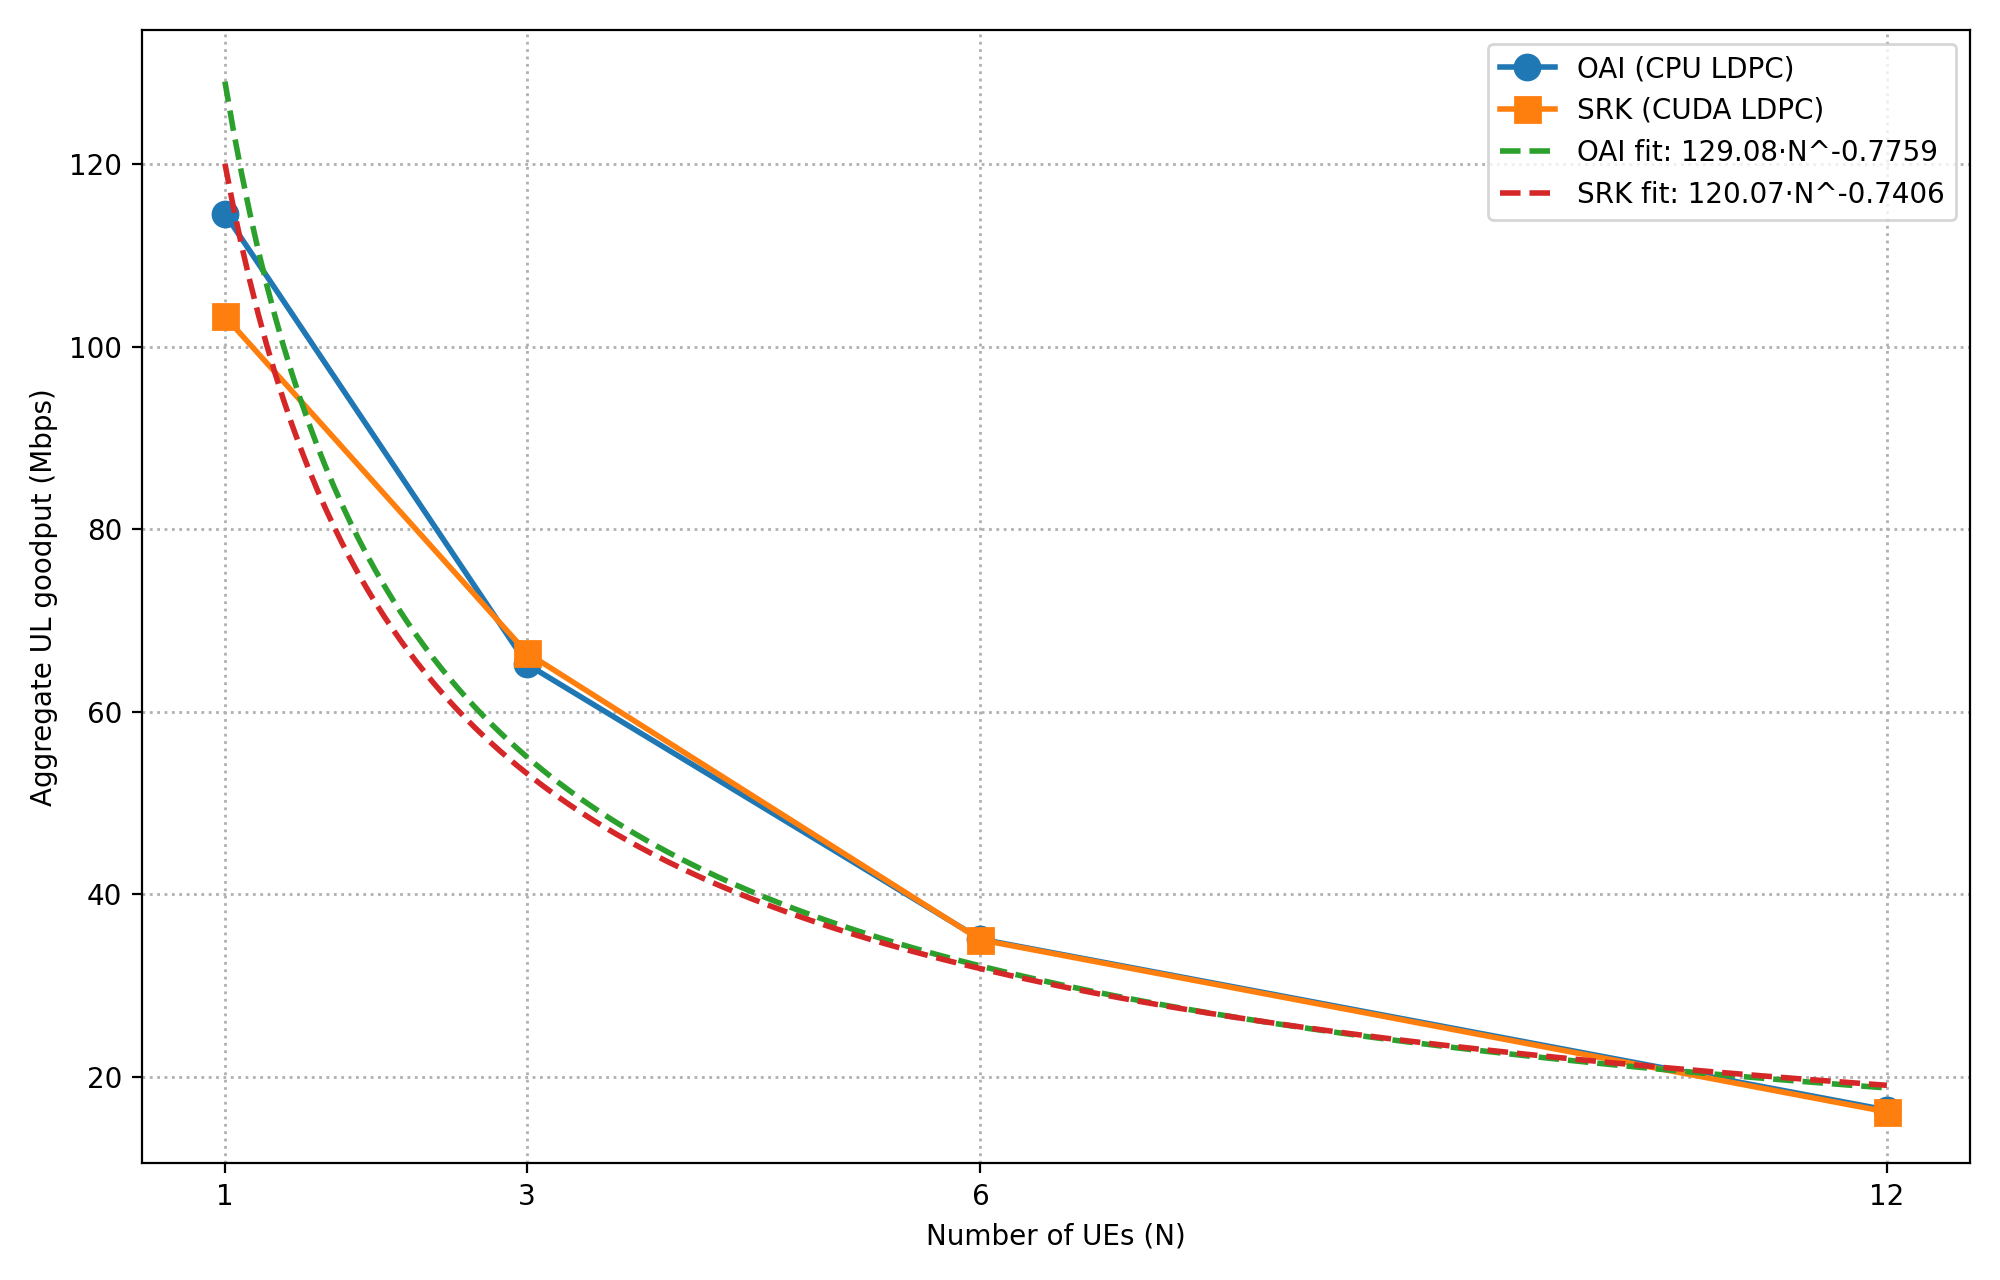
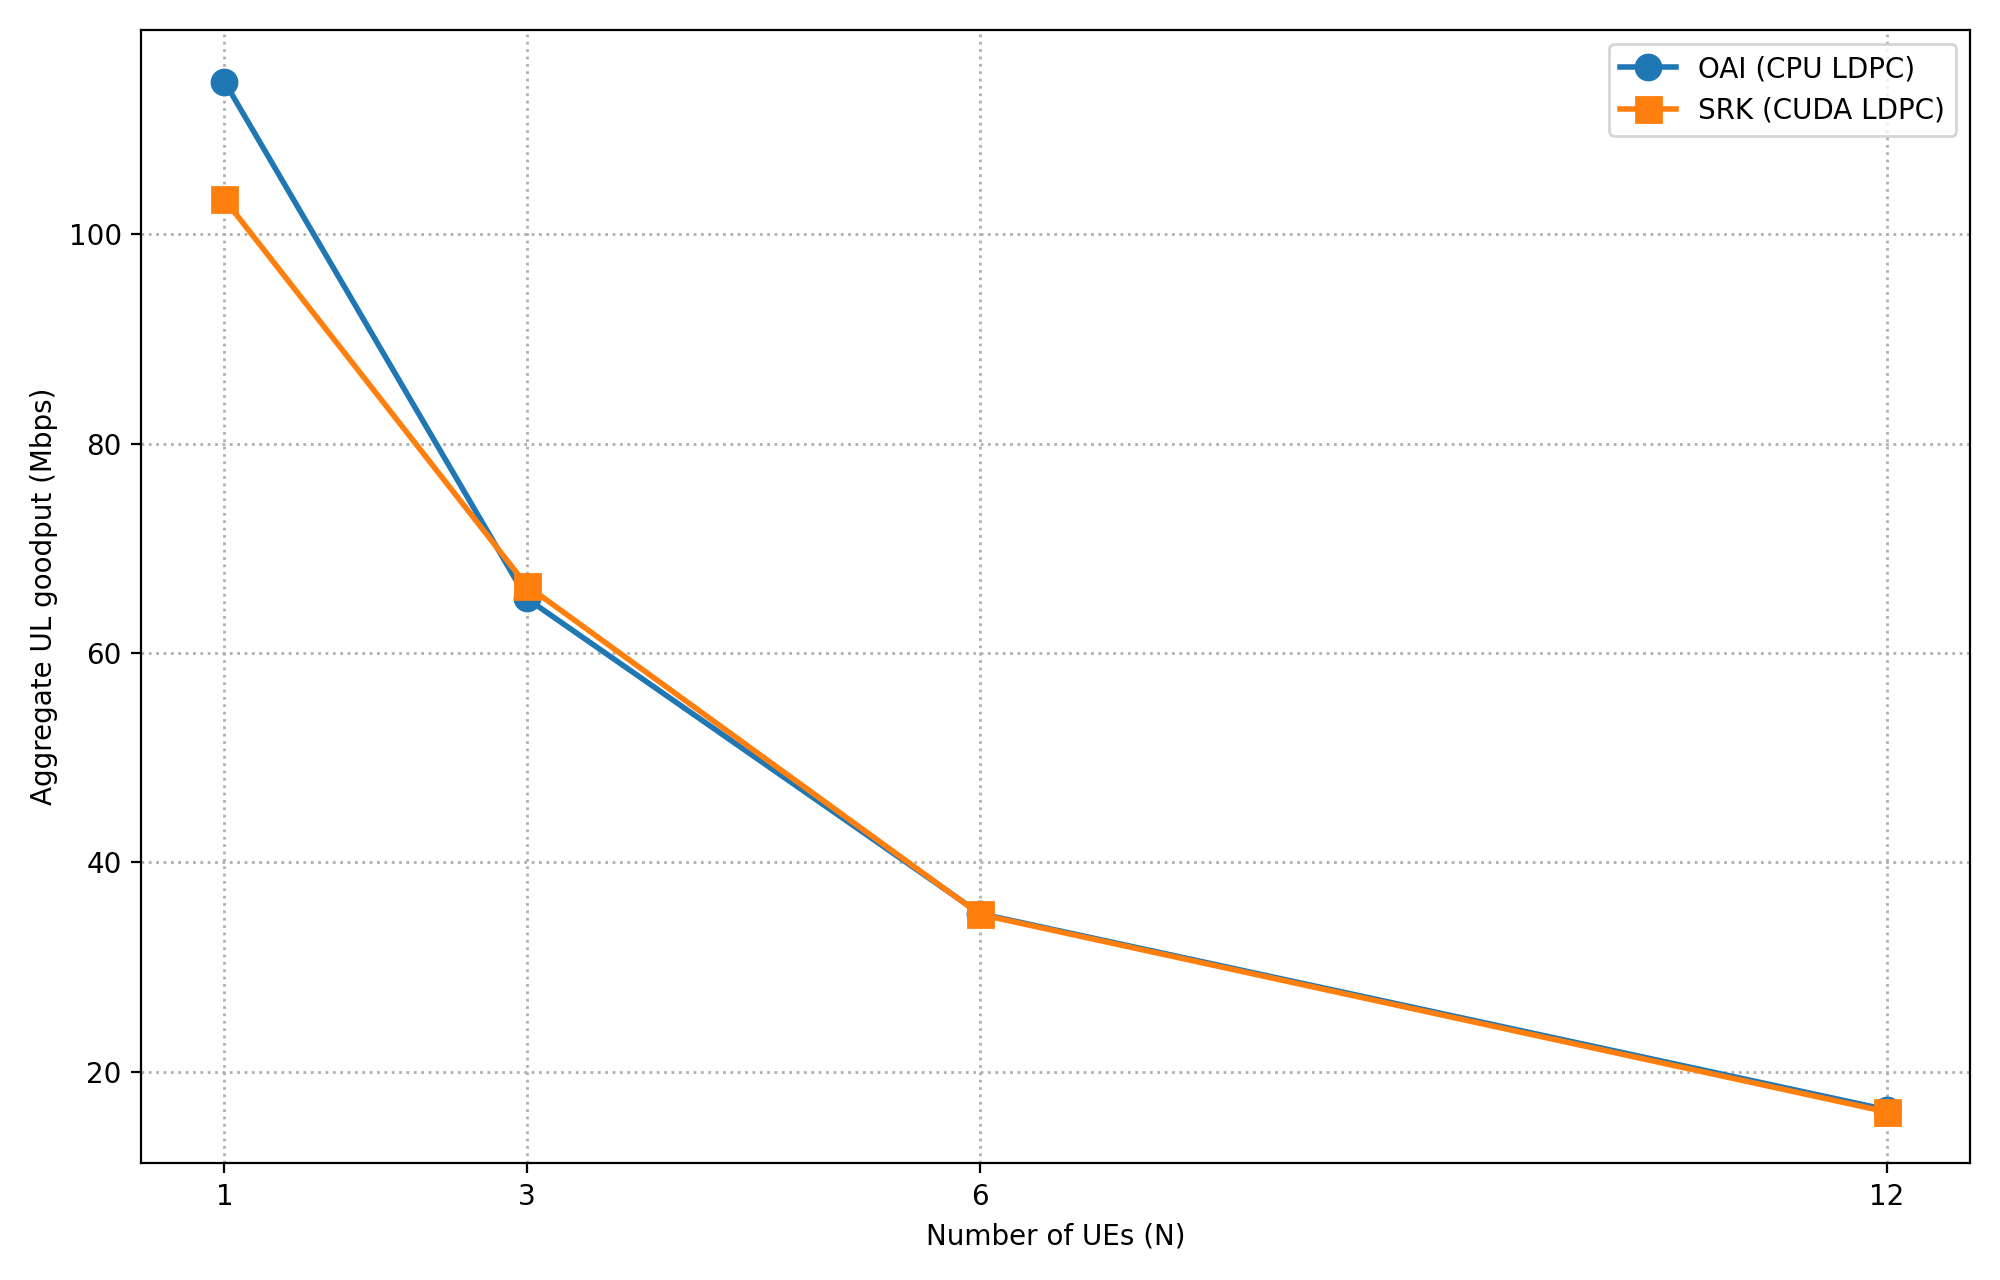
removed fit curves

diff --git a/cu-du/plot_ablation.py b/cu-du/plot_ablation.py
@@ -2,18 +2,6 @@ import numpy as np
 import pandas as pd
 import matplotlib.pyplot as plt
 
-def fit_powerlaw(N, T):
-    x = np.log(N)
-    y = np.log(T)
-    b, loga = np.polyfit(x, y, 1)
-    a = np.exp(loga)
-
-    y_pred = loga + b * x
-    ss_res = np.sum((y - y_pred) ** 2)
-    ss_tot = np.sum((y - np.mean(y)) ** 2)
-    r2 = 1 - ss_res / ss_tot
-    return a, b, r2
-
 # Load summaries
 oai = pd.read_csv("oai_ablation_summary.csv")
 srk = pd.read_csv("srk_ablation_summary.csv")
@@ -26,21 +14,9 @@ def get_T(df, ue):
 T_oai = np.array([get_T(oai, int(u)) for u in ues])
 T_srk = np.array([get_T(srk, int(u)) for u in ues])
 
-a_oai, b_oai, r2_oai = fit_powerlaw(ues, T_oai)
-a_srk, b_srk, r2_srk = fit_powerlaw(ues, T_srk)
-
-x_line = np.linspace(ues.min(), ues.max(), 200)
-y_oai_fit = a_oai * (x_line ** b_oai)
-y_srk_fit = a_srk * (x_line ** b_srk)
-
 plt.figure(figsize=(10, 6.4))
 plt.plot(ues, T_oai, marker="o", linewidth=2, markersize=9, label="OAI (CPU LDPC)")
 plt.plot(ues, T_srk, marker="s", linewidth=2, markersize=9, label="SRK (CUDA LDPC)")
-
-plt.plot(x_line, y_oai_fit, linestyle="--", linewidth=2,
-         label=f"OAI fit: {a_oai:.2f}·N^{b_oai:.4f}")
-plt.plot(x_line, y_srk_fit, linestyle="--", linewidth=2,
-         label=f"SRK fit: {a_srk:.2f}·N^{b_srk:.4f}")
 
 plt.xlabel("Number of UEs (N)")
 plt.ylabel("Aggregate UL goodput (Mbps)")
@@ -49,6 +25,3 @@ plt.grid(True, linestyle=":", linewidth=1)
 plt.legend(loc="upper right")
 plt.tight_layout()
 plt.savefig("fig_ul_throughput_scaling_updated.png", dpi=200)
-
-print("OAI fit:", a_oai, b_oai, r2_oai)
-print("SRK fit:", a_srk, b_srk, r2_srk)
